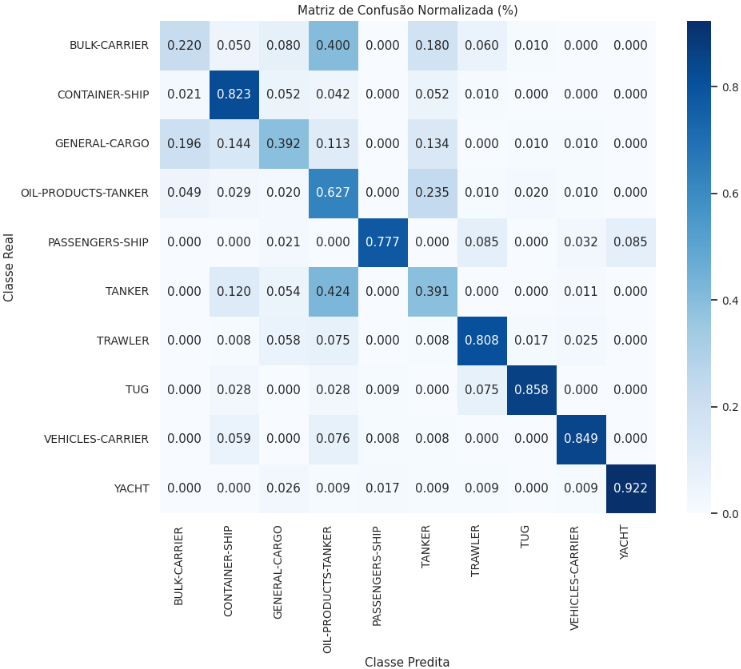
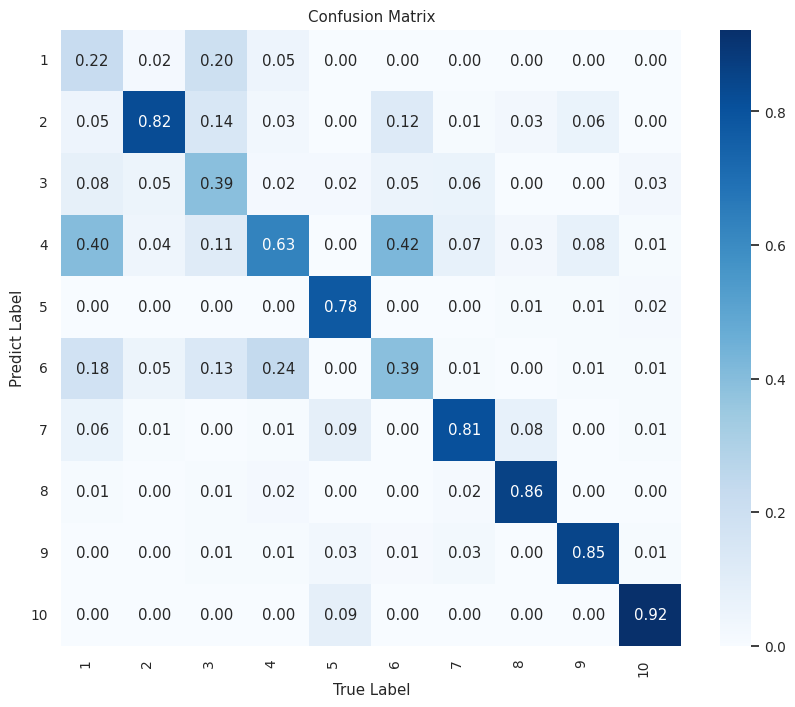
att results

diff --git a/README.md b/README.md
@@ -12,5 +12,17 @@ Detecção de objetos para empresa ATECH, com modelos Mobilev2 ssd fpn lite 320x
 > Observação: Até o momento o melhor modelo é o Yolov5n float32 ou float16, que obteve o melhor resultado
   
 - A base de dados vem do roboflow, basta exportar como jupyter que é gerado um link e assim conseguimos ter a base de dados no notebook colaboratory.
+> 
 
-
+- As classes estão organizadas da seguinte maneira:
+        "BACKGROUND": 0,
+        "BULK-CARRIER": 1,
+        "CONTAINER-SHIP": 2,
+        "GENERAL-CARGO": 3,
+        "OIL-PRODUCTS-TANKER": 4,
+        "PASSENGERS-SHIP": 5,
+        "TANKER": 6,
+        "TRAWLER": 7,
+        "TUG": 8,
+        "VEHICLES-CARRIER": 9,
+        "YACHT": 10
